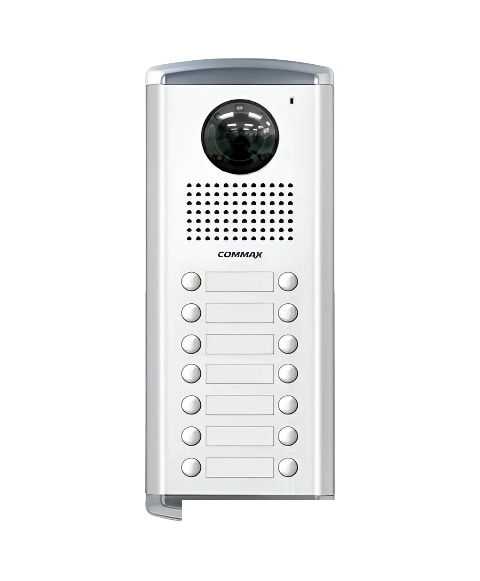
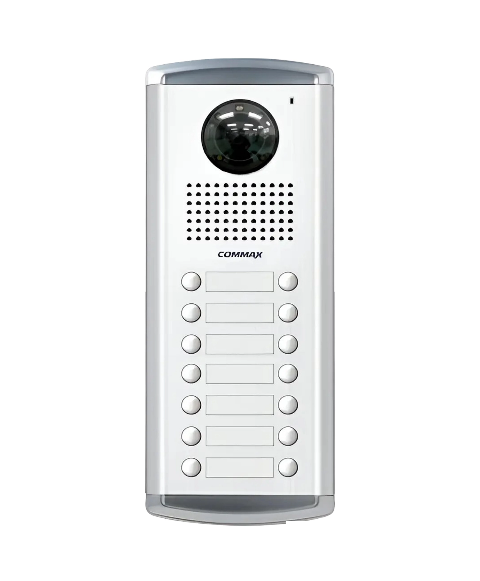
fix: fotos COMMAX oficiales y sin marcas de terceros, imagenes completas
- 7 productos usan la foto oficial descargada de commax.com en alta
  resolucion: DP-2S, TP-6RC, TP-12RC, CDV-43K, DR-24ML, DP-SS y TP-S.
- Los 11 modelos descontinuados (sin pagina en el catalogo global actual
  de COMMAX) se restauraron a su foto original completa y la marca del
  revendedor se elimino con precision: se detecta por color el texto
  rojo y se cubre solo su rectangulo exacto, sin recortar el producto.
- Corrige el problema anterior donde el parche blanco tapaba parte de
  las fotos.

Changed region(s): [[0.375, 0.8365, 0.7188, 0.9294]]

diff --git a/src/data/allProducts.ts b/src/data/allProducts.ts
@@ -14,11 +14,11 @@ export const allProducts: ProductDetail[] = [
   { slug: 'portero-audio-dr-2gn', name: 'Portero Audio DR-2GN', brand: 'COMMAX', brandSlug: 'commax', category: 'Audio Casa', img: '/images/products/DR-2GN-commax.jpeg', mainImg: '/images/products/DR-2GN-commax.jpeg', bullets: ['Portero de metal decorativo.', 'Portero de audio para casa.', '2 hilos de cableado.', 'A 9v.'] },
   { slug: 'intercom-audio-dp-2s', name: 'Intercom Audio DP-2S', brand: 'COMMAX', brandSlug: 'commax', category: 'Audio Casa', img: '/images/products/DP-2S-commax.png', mainImg: '/images/products/DP-2S-commax.png', bullets: ['Conexión con cualquier portero de audio análogo COMMAX.', 'Botón de apertura de cerradura.', '2 hilos de cableado, más 2 hilos para cerradura.', 'A 220v.'] },
   { slug: 'portero-de-audio-dr-dw2n', name: 'Portero de Audio DR-DW2N', brand: 'COMMAX', brandSlug: 'commax', category: 'Oficina', img: '/images/products/DR-DW2N-commax.png', mainImg: '/images/products/DR-DW2N-commax.png', bullets: ['Portero de metal color mármol.', 'Conexión con anexos de 6 y 12 botones.', '4 hilos de cableado incluido para la cerradura.', 'A 12v.'] },
-  { slug: 'intercom-audio-tp-6rc', name: 'Intercom Audio TP-6RC', brand: 'COMMAX', brandSlug: 'commax', category: 'Oficina', img: '/images/products/TP-6RC-commax.png', mainImg: '/images/products/TP-6RC-commax.png', bullets: ['Conexión con portero metal de audio empotrable.', 'Comunicación interna hasta con 6 anexos.', '4 hilos de cableado incluido para la cerradura.', 'Botón PG para perifoneo.', 'A 12v.'] },
-  { slug: 'intercom-audio-tp-12rc', name: 'Intercom Audio TP-12RC', brand: 'COMMAX', brandSlug: 'commax', category: 'Oficina', img: '/images/products/TP-12RC-commax.png', mainImg: '/images/products/TP-12RC-commax.png', bullets: ['Conexión con portero metal de audio empotrable.', 'Comunicación interna hasta con 12 botones.', '4 hilos de cableado incluido para la cerradura.', 'Botón PG para perifoneo.', 'A 12v.'] },
+  { slug: 'intercom-audio-tp-6rc', name: 'Intercom Audio TP-6RC', brand: 'COMMAX', brandSlug: 'commax', category: 'Oficina', img: '/images/products/TP-6RC-commax.jpg', mainImg: '/images/products/TP-6RC-commax.jpg', bullets: ['Conexión con portero metal de audio empotrable.', 'Comunicación interna hasta con 6 anexos.', '4 hilos de cableado incluido para la cerradura.', 'Botón PG para perifoneo.', 'A 12v.'] },
+  { slug: 'intercom-audio-tp-12rc', name: 'Intercom Audio TP-12RC', brand: 'COMMAX', brandSlug: 'commax', category: 'Oficina', img: '/images/products/TP-12RC-commax.jpg', mainImg: '/images/products/TP-12RC-commax.jpg', bullets: ['Conexión con portero metal de audio empotrable.', 'Comunicación interna hasta con 12 botones.', '4 hilos de cableado incluido para la cerradura.', 'Botón PG para perifoneo.', 'A 12v.'] },
   { slug: 'fuente-rf-1a', name: 'Fuente RF-1A', brand: 'COMMAX', brandSlug: 'commax', category: 'Oficina', img: '/images/products/RF-1A-commax.png', mainImg: '/images/products/RF-1A-commax.png', bullets: ['Fuente de 12v controlada.', 'Compatible con intercomunicadores TP y porteros DR.'] },
   { slug: 'camara-pin-hall-drc-4cgn', name: 'Cámara Pin Hall DRC-4CGN', brand: 'COMMAX', brandSlug: 'commax', category: 'Video Casa', img: '/images/products/DRC-4CGN-commax.jpeg', mainImg: '/images/products/DRC-4CGN-commax.jpeg', bullets: ['Lente Pin Hall.', 'Luces Led incorporadas.', 'Conexión con cualquier monitor análogo.', '4 hilos de cableado.', 'A 12v.'] },
-  { slug: 'monitor-lcd-4-3-cdv-43k', name: 'Monitor LCD 4.3" CDV-43K', brand: 'COMMAX', brandSlug: 'commax', category: 'Video Casa', img: '/images/products/CDV-43K-2-commax.png', mainImg: '/images/products/CDV-43K-2-commax.png', bullets: ['Pantalla de 4.3" LCD.', 'Botón de apertura de cámara.', 'Botón de comunicación interna.', 'Botón de apertura de cerradura.', 'Conexión con 1 cámara.', 'Adicional 1 monitor y 1 anexo.', '4 hilos de cableado.', 'A 220v.'] },
+  { slug: 'monitor-lcd-4-3-cdv-43k', name: 'Monitor LCD 4.3" CDV-43K', brand: 'COMMAX', brandSlug: 'commax', category: 'Video Casa', img: '/images/products/CDV-43K-2-commax.jpg', mainImg: '/images/products/CDV-43K-2-commax.jpg', bullets: ['Pantalla de 4.3" LCD.', 'Botón de apertura de cámara.', 'Botón de comunicación interna.', 'Botón de apertura de cerradura.', 'Conexión con 1 cámara.', 'Adicional 1 monitor y 1 anexo.', '4 hilos de cableado.', 'A 220v.'] },
   { slug: 'monitor-lcd-de-7-cdv-70n2', name: 'Monitor LCD 7" CDV-70N2', brand: 'COMMAX', brandSlug: 'commax', category: 'Video Casa', img: '/images/products/CDV-70N2-commax.jpeg', mainImg: '/images/products/CDV-70N2-commax.jpeg', bullets: ['Botón de apertura de cámara.', 'Botón de comunicación interna.', 'Botón de apertura de cerradura.', 'Conexión con 2 cámaras.', 'Adicional 1 monitor y 1 anexo.', '4 hilos de cableado.', 'A 220v.'] },
   { slug: 'anexo-de-video-dp-4vhp', name: 'Anexo de Video DP-4VHP', brand: 'COMMAX', brandSlug: 'commax', category: 'Video Casa', img: '/images/products/DP-4VHP-commax.png', mainImg: '/images/products/DP-4VHP-commax.png', bullets: ['Conexión con cualquier monitor análogo.', 'Botón de comunicación interna.', 'Botón de apertura de cerradura.', '4 hilos de cableado.', 'A 12v.'] },
   { slug: 'portero-audio-dr-2um', name: 'Portero Audio DR-2UM', brand: 'COMMAX', brandSlug: 'commax', category: 'Edificio Audio', img: '/images/products/DR-2UM-commax.png', mainImg: '/images/products/DR-2UM-commax.png', bullets: ['Portero de audio de 2 botones.', '4 hilos de cableado, 3 comunes más 1 por cada departamento.', 'A 12v.'] },

diff --git a/src/data/commaxProducts.ts b/src/data/commaxProducts.ts
@@ -24,8 +24,8 @@ export const commaxProducts: ProductCategory[] = [
     slug: 'oficina',
     products: [
       { name: 'Portero de Audio DR-DW2N', img: '/images/products/DR-DW2N-commax.png', url: 'https://malcos.com.pe/producto/portero-de-audio-dr-dw2n/' },
-      { name: 'Intercom Audio TP-6RC', img: '/images/products/TP-6RC-commax.png', url: 'https://malcos.com.pe/producto/intercom-audio-tp-6rc/' },
-      { name: 'Intercom Audio TP-12RC', img: '/images/products/TP-12RC-commax.png', url: 'https://malcos.com.pe/producto/intercom-audio-tp-12rc/' },
+      { name: 'Intercom Audio TP-6RC', img: '/images/products/TP-6RC-commax.jpg', url: 'https://malcos.com.pe/producto/intercom-audio-tp-6rc/' },
+      { name: 'Intercom Audio TP-12RC', img: '/images/products/TP-12RC-commax.jpg', url: 'https://malcos.com.pe/producto/intercom-audio-tp-12rc/' },
       { name: 'Fuente RF-1A', img: '/images/products/RF-1A-commax.png', url: 'https://malcos.com.pe/producto/fuente-rf-1a/' },
     ],
   },
@@ -34,7 +34,7 @@ export const commaxProducts: ProductCategory[] = [
     slug: 'video-casa',
     products: [
       { name: 'Cámara Pin Hall DRC-4CGN', img: '/images/products/DRC-4CGN-commax.jpeg', url: 'https://malcos.com.pe/producto/camara-pin-hall-drc-4cgn/' },
-      { name: 'Monitor LCD 4.3" CDV-43K', img: '/images/products/CDV-43K-2-commax.png', url: 'https://malcos.com.pe/producto/monitor-lcd-4-3-cdv-43k/' },
+      { name: 'Monitor LCD 4.3" CDV-43K', img: '/images/products/CDV-43K-2-commax.jpg', url: 'https://malcos.com.pe/producto/monitor-lcd-4-3-cdv-43k/' },
       { name: 'Monitor LCD 7" CDV-70N2', img: '/images/products/CDV-70N2-commax.jpeg', url: 'https://malcos.com.pe/producto/monitor-lcd-de-7-cdv-70n2/' },
       { name: 'Anexo de Video DP-4VHP', img: '/images/products/DP-4VHP-commax.png', url: 'https://malcos.com.pe/producto/anexo-de-video-dp-4vhp/' },
     ],
